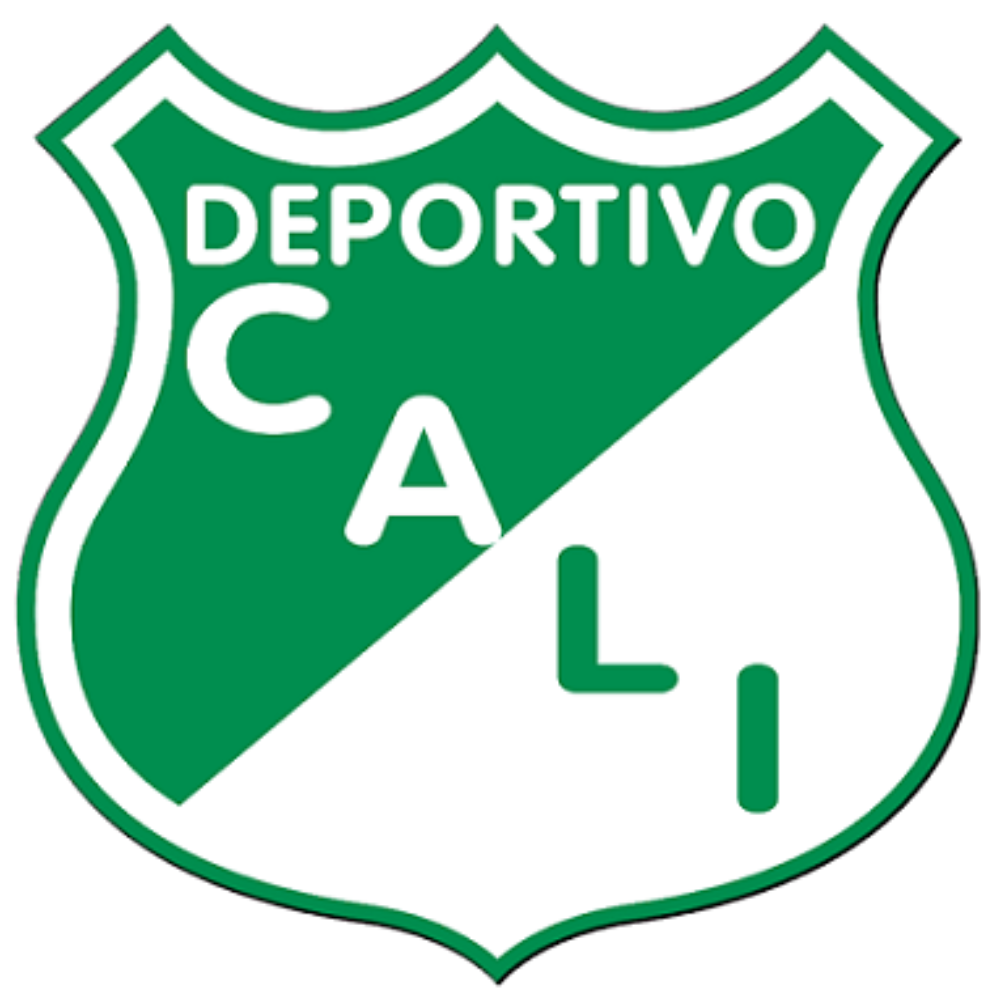
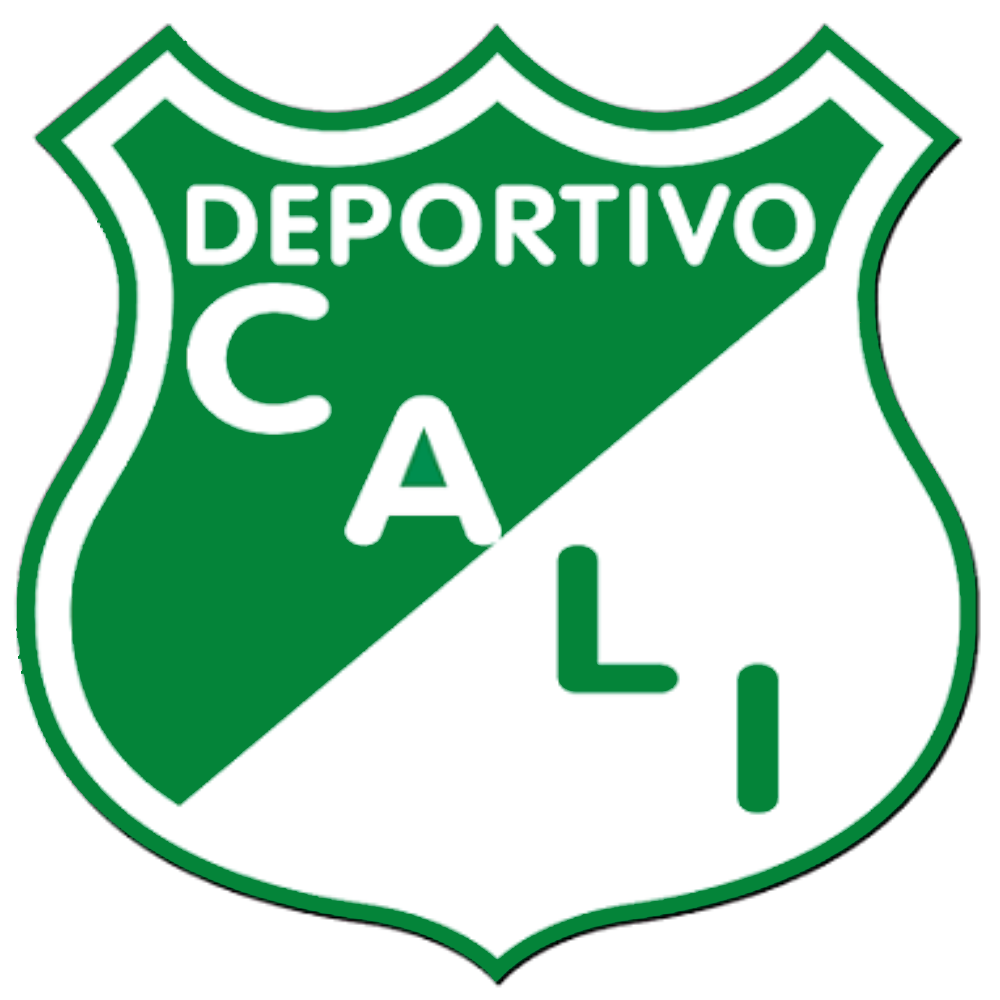
+jogos

diff --git a/src/TodosOsJogos/BotafogoJogos.js b/src/TodosOsJogos/BotafogoJogos.js
@@ -3136,7 +3136,7 @@ function jogos() {
     jogos.push({ "mandante": "São Cristóvão", "visitante": "Botafogo", "golsMandante": 0, "golsVisitante": 2, "campeonato": "Carioca 1970", "data": "1970-07-13", "estadio": "Figueira de Melo" });
     jogos.push({ "mandante": "Portuguesa-RJ", "visitante": "Botafogo", "golsMandante": 2, "golsVisitante": 5, "campeonato": "Carioca 1970", "data": "1970-07-09", "estadio": "Maracanã" });
     jogos.push({ "mandante": "Fluminense", "visitante": "Botafogo", "golsMandante": 0, "golsVisitante": 0, "campeonato": "Carioca 1970", "data": "1970-07-05", "estadio": "Maracanã" });
-    jogos.push({ "mandante": "Fluminense", "visitante": "Botafogo", "golsMandante": 2, "golsVisitante": 0, "campeonato": "Carioca 1970", "data": "1970-04-11", "estadio": "Maracanã" });
+    jogos.push({ "mandante": "Fluminense", "visitante": "Botafogo", "golsMandante": 2, "golsVisitante": 0, "campeonato": "Carioca 1970", "data": "1970-04-17", "estadio": "Maracanã" });
     jogos.push({ "mandante": "Botafogo", "visitante": "Vasco", "golsMandante": 1, "golsVisitante": 1, "campeonato": "Taça Guanabara 1970", "data": "1970-05-31", "estadio": "Maracanã" });
     jogos.push({ "mandante": "Botafogo", "visitante": "Bangu", "golsMandante": 2, "golsVisitante": 1, "campeonato": "Taça Guanabara 1970", "data": "1970-05-28", "estadio": "Maracanã" });
     jogos.push({ "mandante": "Flamengo", "visitante": "Botafogo", "golsMandante": 2, "golsVisitante": 1, "campeonato": "Taça Guanabara 1970", "data": "1970-05-24", "estadio": "Maracanã" });
@@ -4806,6 +4806,23 @@ function jogos() {
     jogos.push({ "mandante": "Universitario", "visitante": "Botafogo", "golsMandante": 3, "golsVisitante": 0, "campeonato": "Amistoso", "data": "1970-10-08", "estadio": "" });
     jogos.push({ "mandante": "Alianza Lima", "visitante": "Botafogo", "golsMandante": 1, "golsVisitante": 3, "campeonato": "Troféu Dr. José M. Rodríguez Arnaiz", "data": "1970-10-06", "estadio": "Nacional (Lima)" });
     jogos.push({ "mandante": "Deportivo Cali", "visitante": "Botafogo", "golsMandante": 0, "golsVisitante": 4, "campeonato": "Amistoso", "data": "1970-02-08", "estadio": "" });
+    jogos.push({ "mandante": "Milan", "visitante": "Botafogo", "golsMandante": 2, "golsVisitante": 2, "campeonato": "Amistoso", "data": "1959-06-17", "estadio": "San Siro" });
+    jogos.push({ "mandante": "Milan", "visitante": "Botafogo", "golsMandante": 2, "golsVisitante": 2, "campeonato": "Amistoso", "data": "1961-06-07", "estadio": "San Siro" });
+    jogos.push({ "mandante": "Botafogo", "visitante": "Independiente", "golsMandante": 1, "golsVisitante": 8, "campeonato": "Amistoso", "data": "1940-03-04", "estadio": "" });
+    jogos.push({ "mandante": "Botafogo", "visitante": "Independiente", "golsMandante": 1, "golsVisitante": 1, "campeonato": "Amistoso", "data": "1958-02-02", "estadio": "" });
+    jogos.push({ "mandante": "Independiente", "visitante": "Botafogo", "golsMandante": 0, "golsVisitante": 2, "campeonato": "Copa Carranza de Buenos Aires", "data": "1966-02-14", "estadio": "Libertadores de América" });
+    jogos.push({ "mandante": "Racing", "visitante": "Botafogo", "golsMandante": 0, "golsVisitante": 2, "campeonato": "Copa Carranza de Buenos Aires", "data": "1966-02-16", "estadio": "Libertadores de América" });
+    jogos.push({ "mandante": "Racing", "visitante": "Botafogo", "golsMandante": 0, "golsVisitante": 0, "campeonato": "Amistoso", "data": "1966-10-12", "estadio": "" });
+    jogos.push({ "mandante": "Argentina", "visitante": "Botafogo", "golsMandante": 0, "golsVisitante": 1, "campeonato": "Troféu Triangular de Caracas", "data": "1968-08-24", "estadio": "Universitário de Caracas" });
+    jogos.push({ "mandante": "Argentina", "visitante": "Botafogo", "golsMandante": 3, "golsVisitante": 1, "campeonato": "Amistoso", "data": "1966-03-29", "estadio": "Monumental de Núñez" });
+    jogos.push({ "mandante": "Peñarol", "visitante": "Botafogo", "golsMandante": 0, "golsVisitante": 0, "campeonato": "Troféu Triangular de Caracas", "data": "1967-01-28", "estadio": "Universitário de Caracas" });
+    jogos.push({ "mandante": "Botafogo", "visitante": "Barcelona", "golsMandante": 2, "golsVisitante": 3, "campeonato": "Troféu Triangular de Caracas", "data": "1967-01-31", "estadio": "Universitário de Caracas" });
+    jogos.push({ "mandante": "Botafogo", "visitante": "River Plate", "golsMandante": 1, "golsVisitante": 1, "campeonato": "Torneio Pentagonal do México", "data": "1958-02-20", "estadio": "" });
+    jogos.push({ "mandante": "River Plate", "visitante": "Botafogo", "golsMandante": 2, "golsVisitante": 2, "campeonato": "Amistoso", "data": "1958-09-10", "estadio": "Monumental de Núñez" });
+    jogos.push({ "mandante": "Botafogo", "visitante": "River Plate", "golsMandante": 0, "golsVisitante": 0, "campeonato": "Amistoso", "data": "1963-01-31", "estadio": "" });
+    jogos.push({ "mandante": "River Plate", "visitante": "Botafogo", "golsMandante": 3, "golsVisitante": 4, "campeonato": "Taça Íbero-Americana", "data": "1964-07-14", "estadio": "Monumental de Núñez" });
+    jogos.push({ "mandante": "Botafogo", "visitante": "Barcelona", "golsMandante": 2, "golsVisitante": 0, "campeonato": "Taça Íbero-Americana", "data": "1964-07-16", "estadio": "Monumental de Núñez" });
+    jogos.push({ "mandante": "Botafogo", "visitante": "River Plate", "golsMandante": 1, "golsVisitante": 2, "campeonato": "Amistoso", "data": "1967-02-12", "estadio": "" });
 
     jogos.sort(function (a, b) {
         return a.data < b.data ? -1 : a.data > b.data ? 1 : 0;

diff --git a/src/Times.js b/src/Times.js
@@ -149,6 +149,12 @@ function Times(time, data) {
                   backgroundColor = "#048439";
                   letterColor = "white";
                   break;
+            case "Argentina":
+                  nomeAtual = time;
+                  escudo = time;
+                  backgroundColor = "#0d80bf";
+                  letterColor = "white";
+                  break;
             case "Aruba":
                   nomeAtual = time;
                   escudo = time;
@@ -766,7 +772,7 @@ function Times(time, data) {
             case "Deportivo Cali":
                   nomeAtual = time;
                   escudo = time;
-                  backgroundColor = "#008e4f";
+                  backgroundColor = "#048439";
                   letterColor = "white";
                   break;
             case "Deportivo La Coruña":
@@ -1438,6 +1444,12 @@ function Times(time, data) {
                   escudo = time;
                   backgroundColor = "#2A6438";
                   letterColor = "white";
+                  break;
+            case "Milan":
+                  nomeAtual = time;
+                  escudo = time;
+                  backgroundColor = "#d30a11";
+                  letterColor = "black";
                   break;
             case "Millonarios":
                   nomeAtual = time;
@@ -2349,13 +2361,13 @@ function Times(time, data) {
                   nomeAtual = time;
                   escudo = time;
                   backgroundColor = "#0d80bf";
-                  letterColor = "white";
+                  letterColor = "black";
                   break;
             case "Uruguai Sub-20":
                   nomeAtual = time;
                   escudo = "Uruguai";
                   backgroundColor = "#0d80bf";
-                  letterColor = "white";
+                  letterColor = "black";
                   break;
             case "Valencia":
                   nomeAtual = time;
